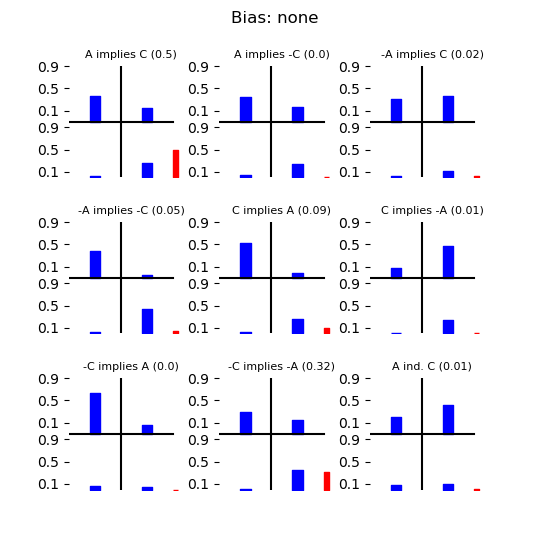
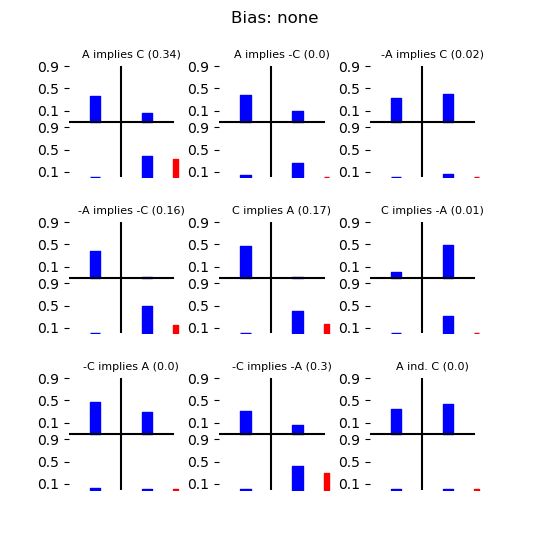
added new results

diff --git a/code-for-plots/visualizations.py b/code-for-plots/visualizations.py
@@ -69,7 +69,7 @@ def tablePlots(fn_j, fn_m, listener):
 
 if __name__ == '__main__':
 
-    listener = "LL" # PL or LL
+    listener = "PL" # PL or LL
 
     fn_joint = './../rwebppl/results-' + listener + '-3-runs-each-bias/evs-joint.csv'
     fn_marginal = './../rwebppl/results-' + listener + '-3-runs-each-bias/evs-marginal.csv'
